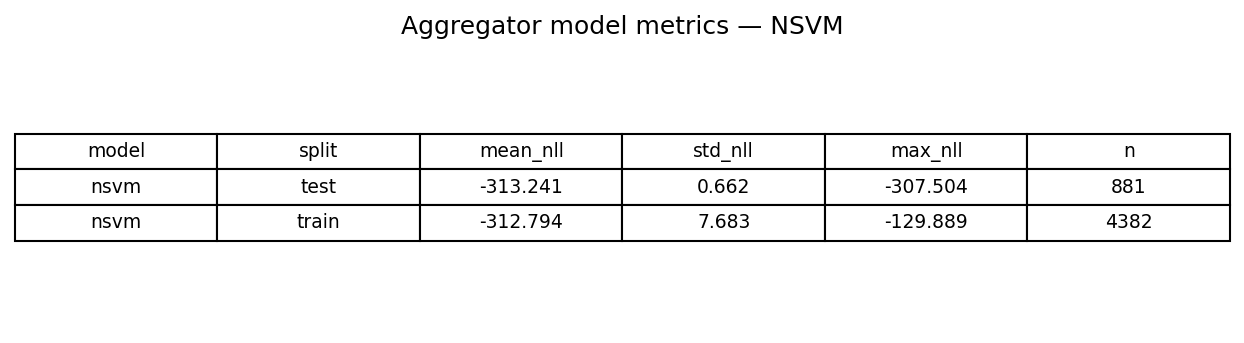
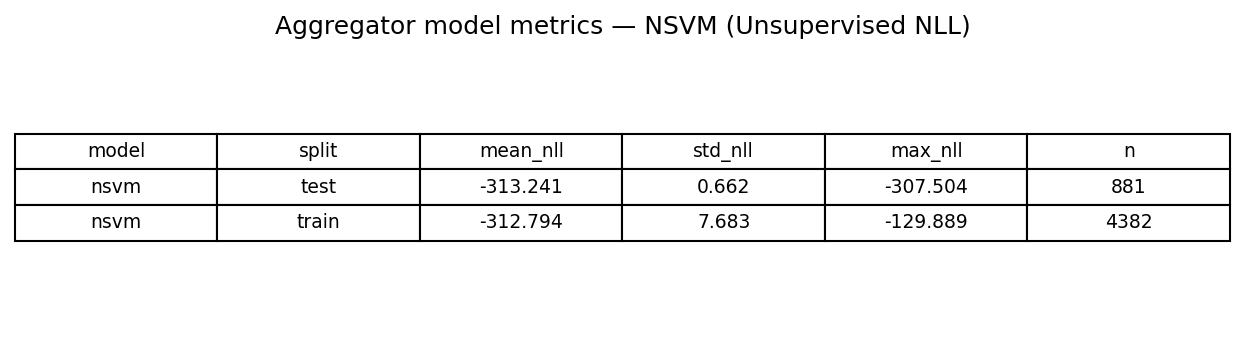
fix

Changed region(s): [[0.2138, 0.0292, 0.7942, 0.1166]]

diff --git a/src/ru_liquidity_sentinel/reporting.py b/src/ru_liquidity_sentinel/reporting.py
@@ -55,9 +55,6 @@ def plot_lsi(run: PipelineRun, path: Path) -> Path:
     ax.axhline(LSI_THRESHOLDS["green_max"], color="#2ecc71", lw=0.5, ls="--")
     ax.axhline(LSI_THRESHOLDS["yellow_max"], color="#ff4d4d", lw=0.5, ls="--")
 
-    # The LSI line is the log-calibrated NSVM prediction;
-    # there is nothing else to overlay (no parallel models).
-
     for name, start, end in run.config.backtest_episodes:
         ax.axvspan(pd.Timestamp(start), pd.Timestamp(end), color="grey", alpha=0.20)
 
@@ -164,8 +161,6 @@ _MODEL_COLORS = {
 }
 
 def plot_model_predictions(run: PipelineRun, path: Path) -> Optional[Path]:
-    """One big figure: per-model subplot of LSI predictions over the full timeline."""
-
     if run.models is None:
         return None
     preds = run.models.predictions_frame()
@@ -215,8 +210,6 @@ def plot_model_predictions(run: PipelineRun, path: Path) -> Optional[Path]:
 def plot_model_predictions_episode_zoom(
     run: PipelineRun, path: Path
 ) -> Optional[Path]:
-    """Zoom on the three TZ episodes for a tight visual comparison."""
-
     if run.models is None:
         return None
     preds = run.models.predictions_frame()
@@ -251,8 +244,6 @@ def plot_model_predictions_episode_zoom(
 
 
 def plot_model_metrics_table(run: PipelineRun, path: Path) -> Optional[Path]:
-    """Render the side-by-side metrics table as a PNG."""
-
     if run.models is None:
         return None
     df = run.models.metrics_table()
@@ -284,25 +275,18 @@ def plot_model_metrics_table(run: PipelineRun, path: Path) -> Optional[Path]:
     table.auto_set_font_size(False)
     table.set_fontsize(9)
     table.scale(1.0, 1.4)
-    ax.set_title("Aggregator model metrics — NSVM")
+    ax.set_title("Aggregator model metrics — NSVM (Unsupervised NLL)")
     return _save_fig(fig, path)
 
 
 def plot_cv_folds(run: PipelineRun, path: Path) -> Optional[Path]:
-    """Walk-forward CV: per-fold train/val MAE for the chosen hyper-params.
-
-    Shows the train and validation MAE achieved on each chronological fold
-    (only for the *winning* config of each model) so we can see whether
-    fold-by-fold generalisation is stable across time.
-    """
-
     if run.models is None:
         return None
     cv = run.models.cv_table()
     if cv.empty:
+        # Since we removed TimeSeriesSplit CV for the Unsupervised approach, this will be gracefully skipped.
         return None
 
-    # Keep only the winner config per model (by mean val_mae).
     winners = []
     for (model, params), grp in cv.groupby(["model", "params"]):
         winners.append({"model": model, "params": params, "val_mean": grp["val_mae"].mean()})
@@ -336,8 +320,6 @@ def plot_cv_folds(run: PipelineRun, path: Path) -> Optional[Path]:
 
 
 def plot_feature_importance(run: PipelineRun, path: Path) -> Optional[Path]:
-    """Top features per model — side-by-side."""
-
     if run.models is None:
         return None
     available = {
@@ -365,14 +347,8 @@ def plot_feature_importance(run: PipelineRun, path: Path) -> Optional[Path]:
 
 
 def plot_noise_breakdown(run: PipelineRun, path: Path) -> Path:
-    """Variance decomposition of Var(ΔLSI) into per-module + cross terms.
-
-    See :func:`aggregate.noise_breakdown` for the formula.
-    """
-
     nb = run.noise_breakdown.copy()
     if nb.empty:
-        # synthesise an empty axis to avoid breaking
         fig, ax = plt.subplots(figsize=(8, 4))
         ax.set_title("Noise breakdown — no data")
         return _save_fig(fig, path)
@@ -415,8 +391,6 @@ def plot_noise_breakdown(run: PipelineRun, path: Path) -> Path:
 
 
 def _annotate_corr(ax, mat: pd.DataFrame, fmt: str = "{:.2f}") -> None:
-    """Write each correlation value in the centre of its cell."""
-
     for i in range(mat.shape[0]):
         for j in range(mat.shape[1]):
             v = mat.iat[i, j]
@@ -439,8 +413,6 @@ def plot_correlation_matrix(
     path: Path,
     annotate: bool = True,
 ) -> Path:
-    """Generic correlation matrix plot with annotations."""
-
     if df.shape[1] < 2:
         fig, ax = plt.subplots(figsize=(4, 3))
         ax.set_title(f"{title} — too few columns")
@@ -464,8 +436,6 @@ def plot_correlation_matrix(
 def plot_module_correlation_matrices(
     run: PipelineRun, fdir: Path
 ) -> List[Path]:
-    """One correlation matrix per module (mad_scores ∪ flags ∪ mio_cusum)."""
-
     out: List[Path] = []
     for module in ("M1", "M2", "M3", "M4", "M5"):
         cols = module_columns(run.features, module)
@@ -485,16 +455,6 @@ def plot_module_correlation_matrices(
 
 
 def plot_global_correlation_matrix(run: PipelineRun, path: Path) -> Path:
-    """One global matrix: every mad_score / flag / mio_cusum + module sums.
-
-    The matrix mixes cross-module pairs so the user can see, e.g., that
-    M1 ``end_of_period`` flag is uncorrelated with M3 ``cover_low``,
-    while M5 ``deficit`` strongly co-moves with M2 ``volume``.
-
-    The "module sum" columns are the transparent ``score_M{n}`` series
-    (mad-mean + flag count + mio CUSUM, in [0, 100]).
-    """
-
     parts: List[pd.DataFrame] = []
     for module in ("M1", "M2", "M3", "M4", "M5"):
         cols = module_columns(run.features, module)
@@ -572,6 +532,7 @@ def write_all_reports(run: PipelineRun, cfg: PipelineConfig | None = None) -> Li
 
     out.append(export_alerts_table(run, tdir / "top_alerts.csv"))
 
+    # HERE IS THE FIX: Removed reference to supervised holdout metrics.
     summary_rows = [
         {"metric": "n_days", "value": int(run.features.shape[0])},
         {"metric": "lsi_q50", "value": run.metadata["lsi_quantiles"]["q50"]},
@@ -582,10 +543,8 @@ def write_all_reports(run: PipelineRun, cfg: PipelineConfig | None = None) -> Li
             "value": run.metadata["lsi_smoothness"]["std_day_diff"],
         },
         {"metric": "n_auto_episodes", "value": run.metadata["n_auto_episodes"]},
-        {"metric": "holdout_mae", "value": run.holdout.get("mae", float("nan"))},
-        {"metric": "holdout_auc", "value": run.holdout.get("auc", float("nan"))},
-        {"metric": "holdout_n", "value": run.holdout.get("n", 0)},
     ]
+
     if run.models is not None:
         for model_name, m in run.models.models.items():
             for split, metrics in (
@@ -599,6 +558,7 @@ def write_all_reports(run: PipelineRun, cfg: PipelineConfig | None = None) -> Li
                             "value": float(v) if isinstance(v, (int, float)) else v,
                         }
                     )
+
     summary = pd.DataFrame(summary_rows)
     summary_path = tdir / "summary_metrics.csv"
     summary.to_csv(summary_path, index=False)
